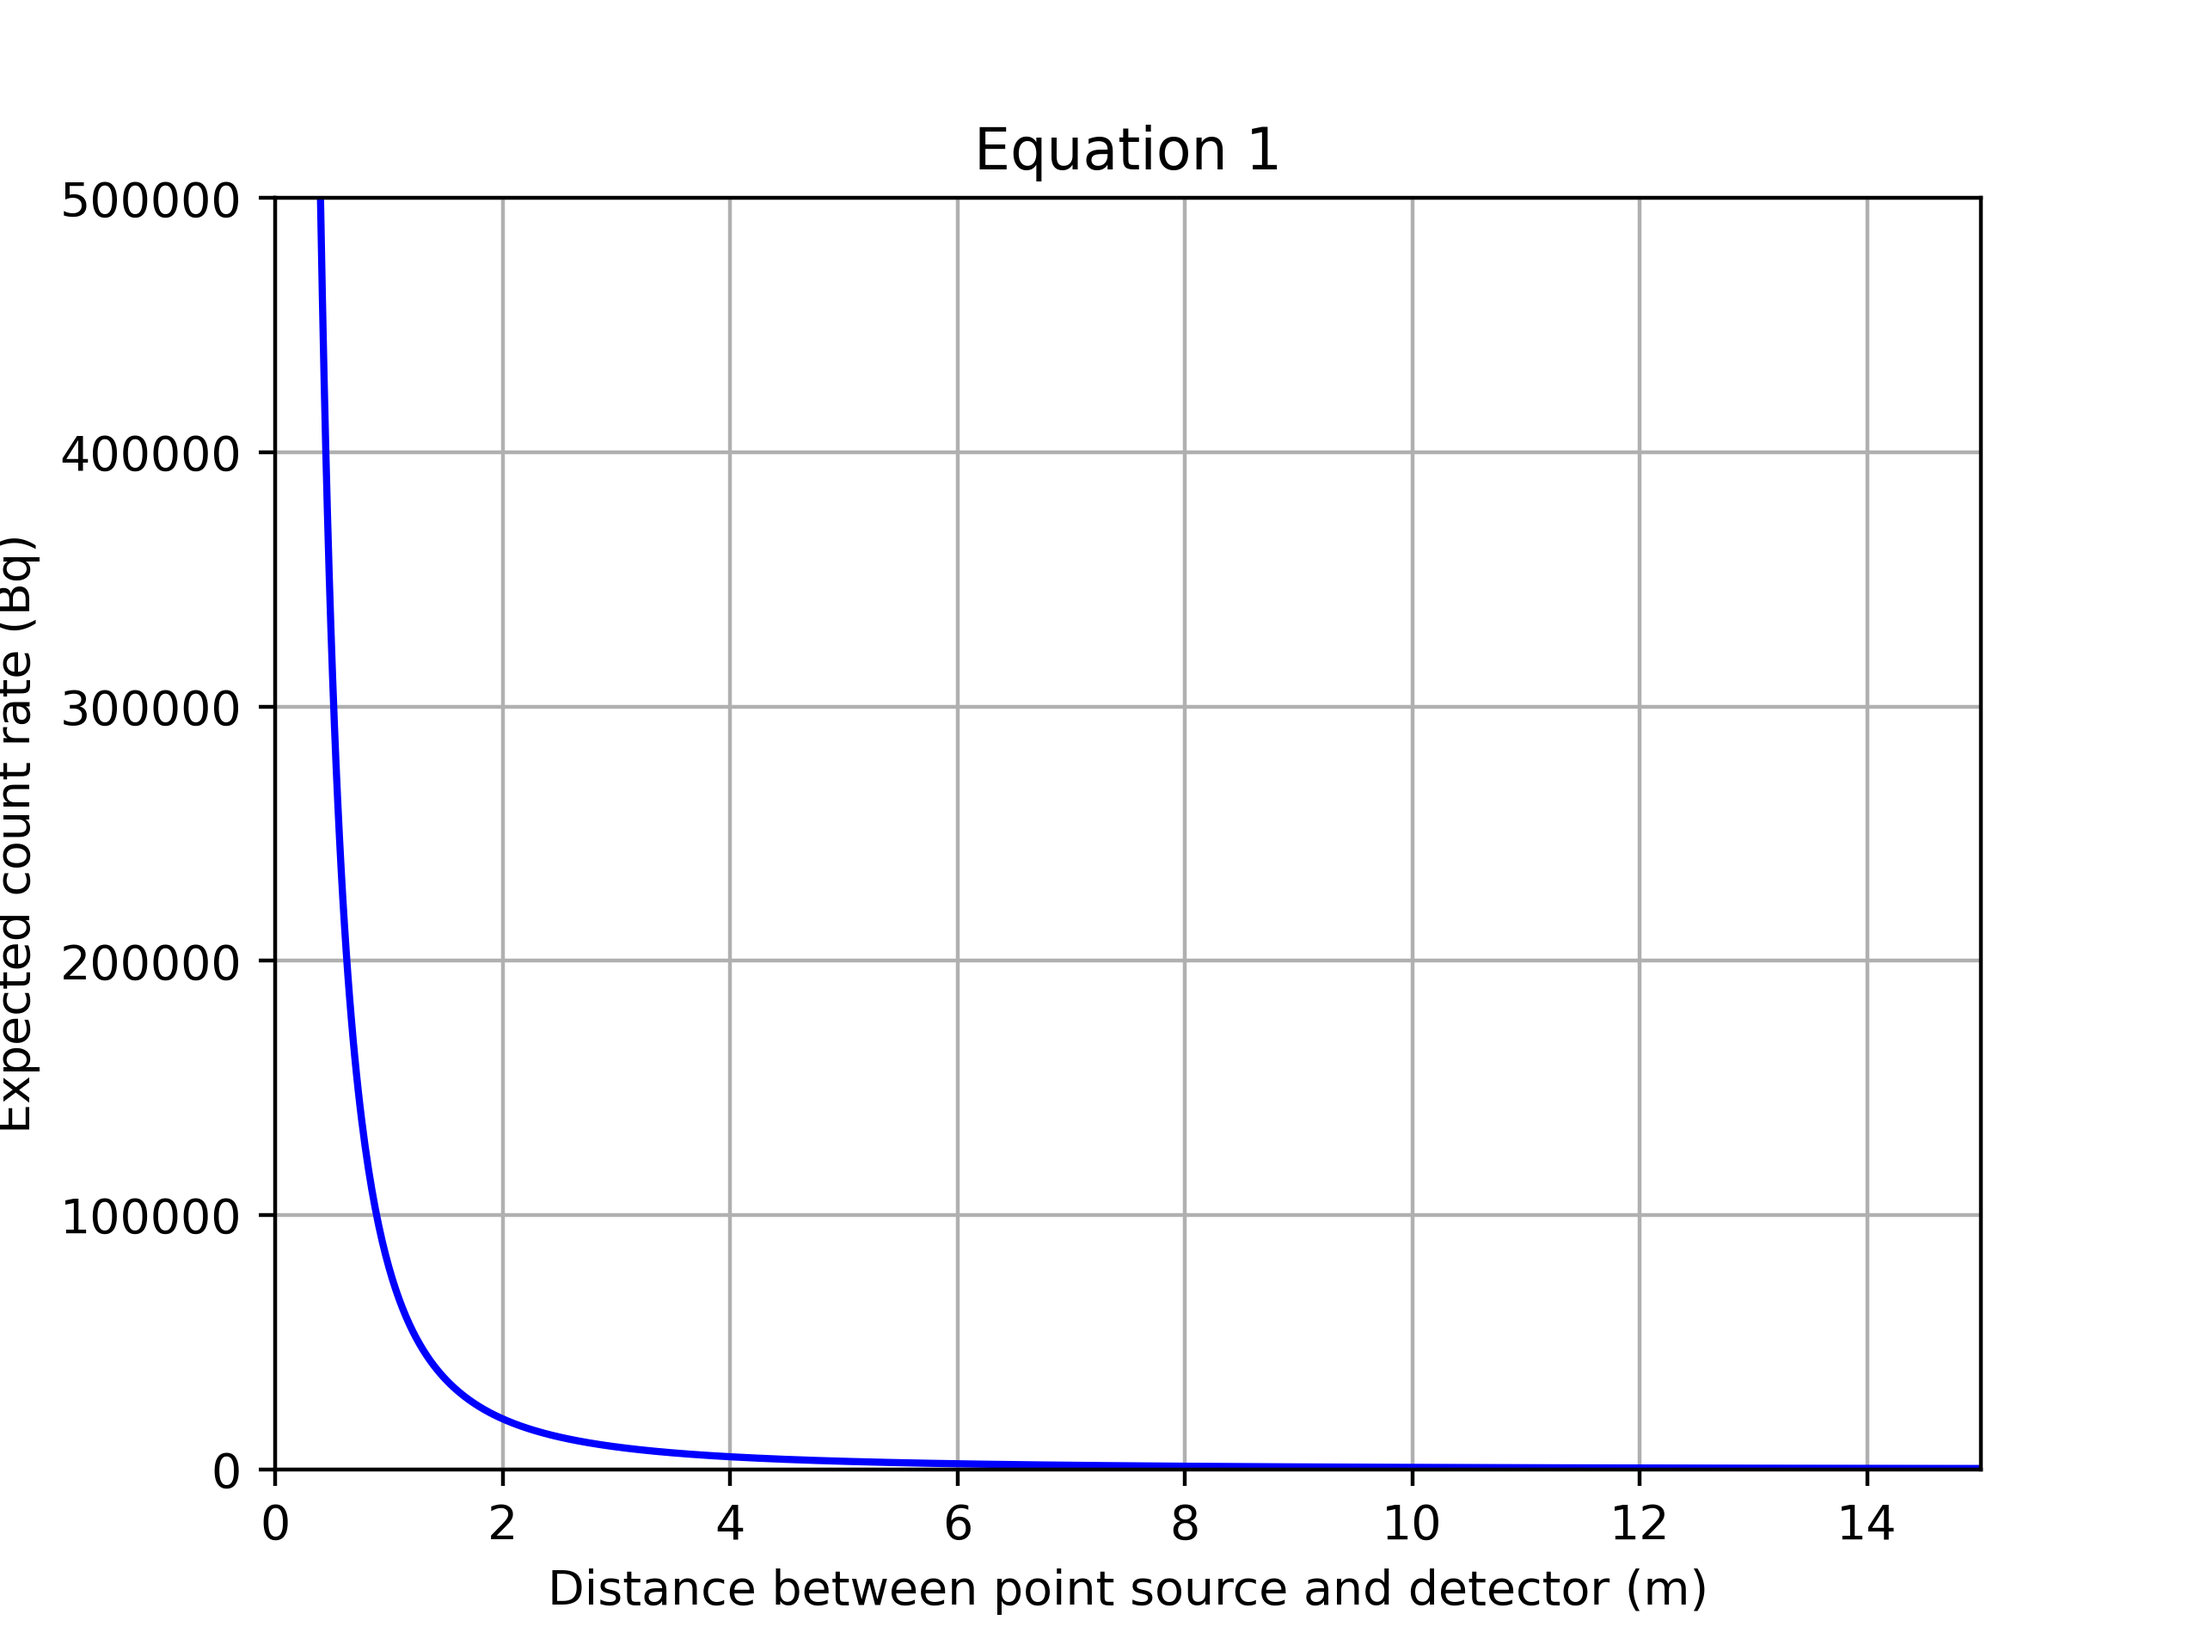
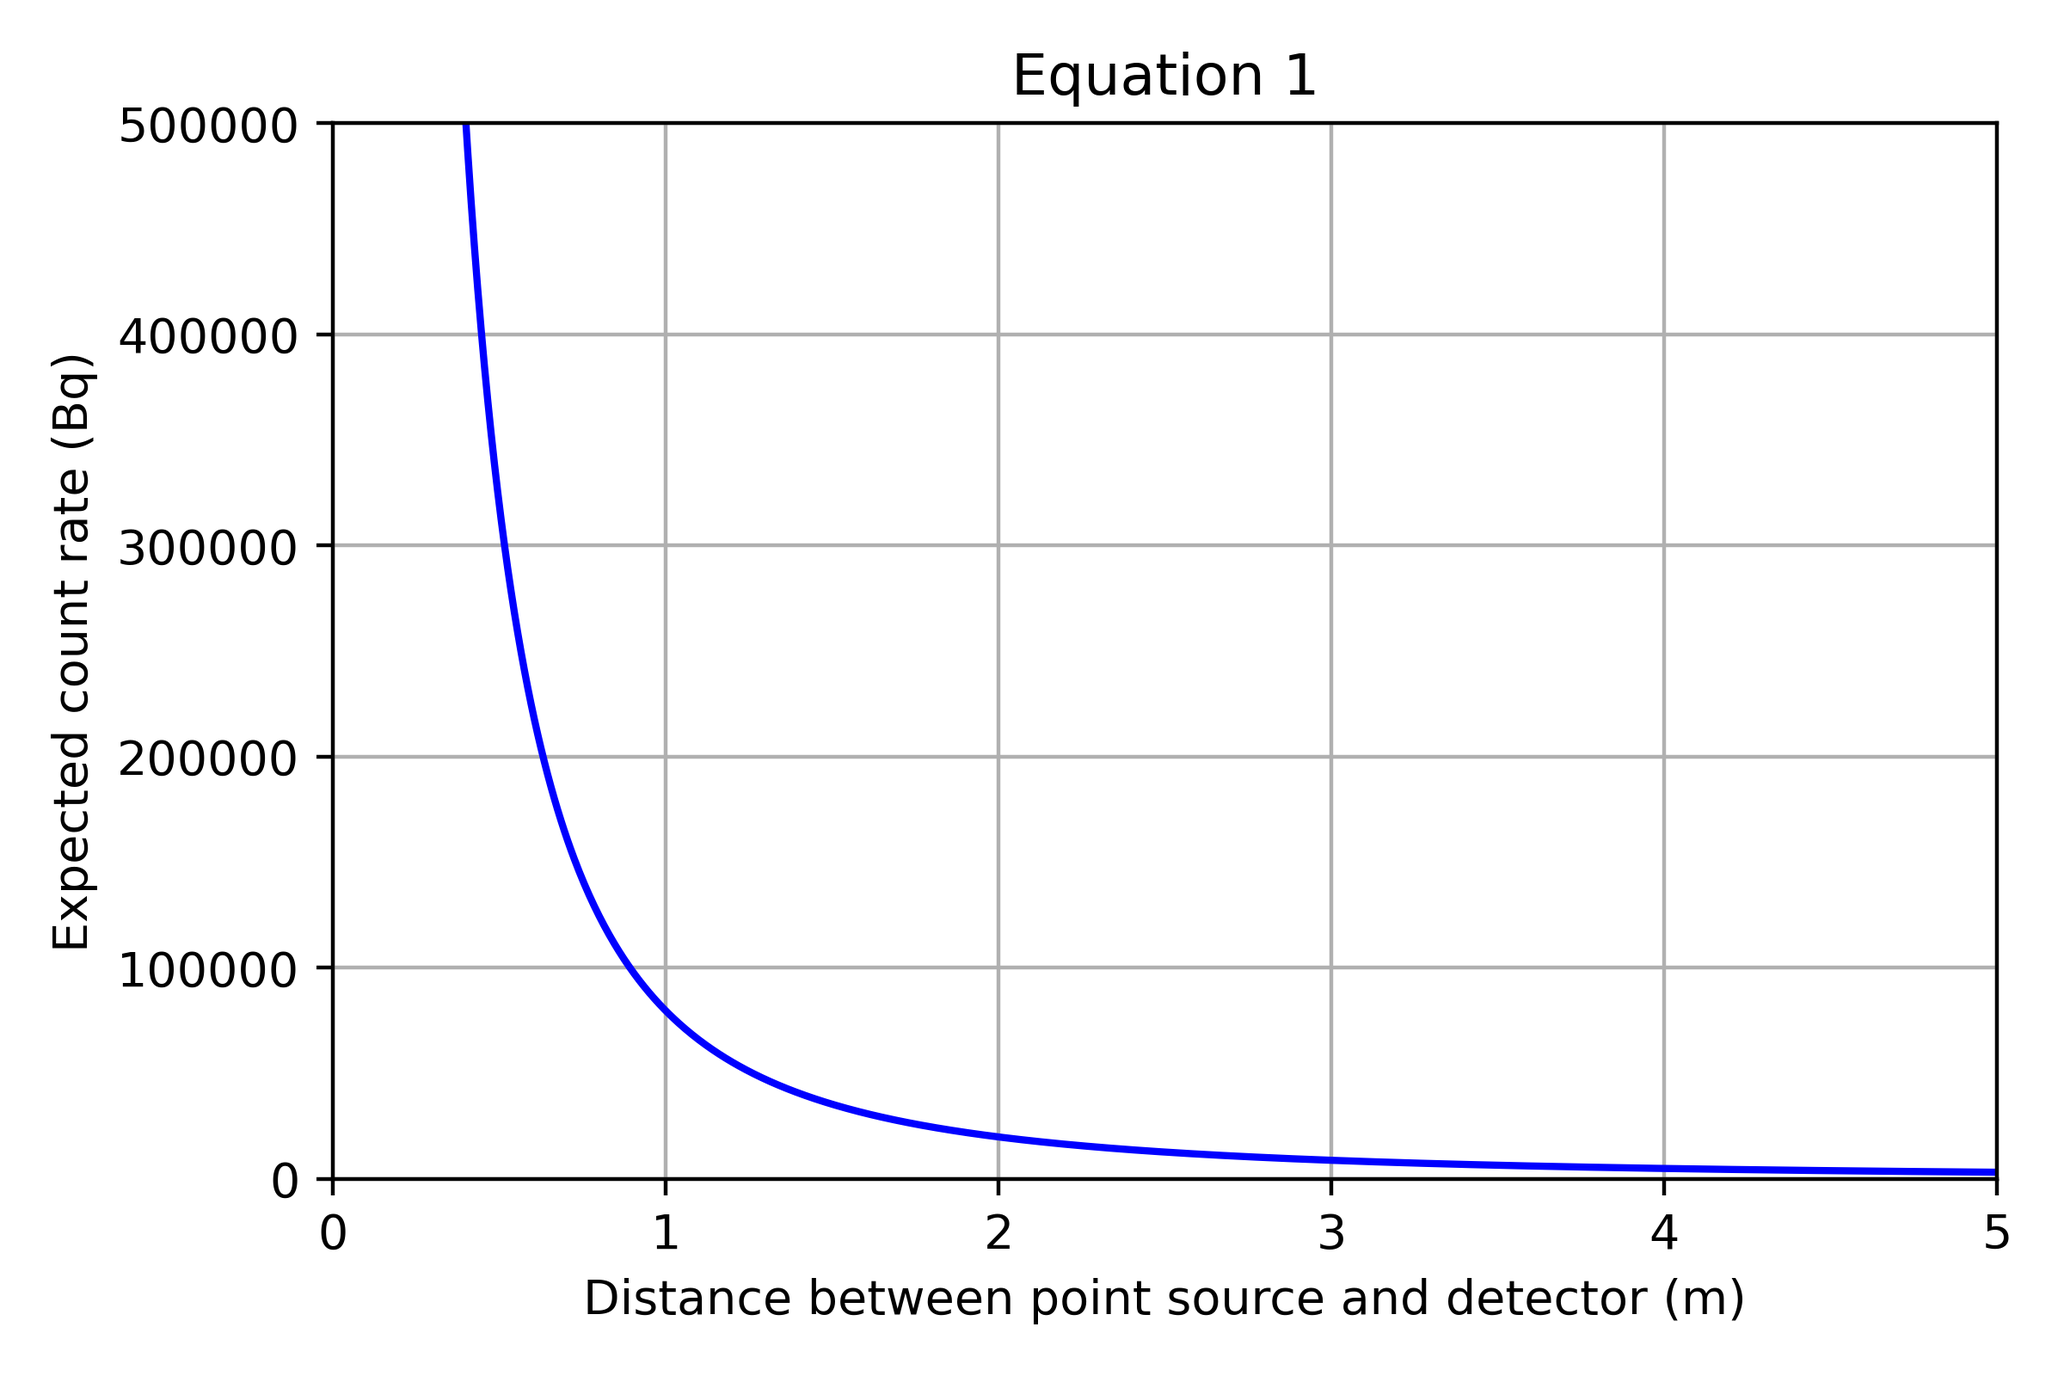
touch up on plots, add plot including eq2 and 3

diff --git a/code/complot.py b/code/complot.py
@@ -1,0 +1,85 @@
+# -*- coding: utf-8 -*-
+"""
+Created on Tue Mar 11 21:15:10 2025
+
+@author: wuhei
+"""
+
+import numpy as np
+import matplotlib.pyplot as plt
+from scipy.integrate import dblquad
+
+def integrate_point_source_modified(x2):
+    
+
+    L=1e6
+    detector_size=0.005
+    def integrand(y3, z3):
+        return x2 / ((x2**2 + y3**2 + z3**2) ** (3 / 2))
+    
+    integral_value, _ = dblquad(
+        integrand, 
+        -detector_size, detector_size,  # Limits for z3 (outer integral)
+        lambda z3: -detector_size, lambda z3: detector_size  # Limits for y3 (inner integral)
+    )
+    
+    return (L / (4 * np.pi)) * integral_value
+
+x2 = np.linspace(0.001, 0.1, num=1000, endpoint = True)
+y=np.array([])
+for n in range (0, len(x2)):
+    y=np.append(y, integrate_point_source_modified(x2[n]))
+
+
+# Plotting the graph
+plt.figure(dpi=400)
+plt.plot(x2, y, label='Equation 2')
+
+N=1000000 # Number of simulated particles for Monte Carlo method
+# Limits of the integrals, dimensions in SI units
+r1=0.02343/2
+L=0.0028
+y3b=0.005
+y3a=-0.005
+z3b=0.005
+z3a=-0.005
+y3=np.random.uniform(y3a, y3b, N)
+z3=np.random.uniform(z3a, z3b, N)
+x1b=L
+x1a=0
+x1=np.random.uniform(x1a, x1b, N)
+y1b=r1
+y1a=-r1
+y1=np.random.uniform(y1a, y1b, N)
+z1b=np.sqrt(r1**2-y1**2)
+z1a=-np.sqrt(r1**2-y1**2)
+z1=np.random.uniform(z1a, z1b, N)
+C=1000000 # Activity of source set as 1M Bq
+# Computing the integral
+def equation3(x2):
+    def integral(z3, y3, z1, y1, x1):
+        I=C/(np.pi*r1**2*L)
+        theta2=(x2+x1)/((x2+x1)**2+(y3-y1)**2+(z3-z1)**2)**1.5/(4*np.pi)
+        P=I*theta2
+        return P
+    y=integral(z3, y3, z1, y1, x1)   
+    y_mean=(y.sum())/len(y)
+    domain=0.01**2*np.pi*r1**2*L
+    integ=domain*y_mean    
+    return integ
+
+y=np.array([])
+for n in range (0, len(x2)):
+    y=np.append(y, equation3(x2[n]))
+plt.plot(x2, y, label='Equation 3')
+
+plt.xlabel('Distance between source and detector (m)')  # Label for x-axis
+plt.ylabel('Expected count rate (Bq)')    # Label for y-axis
+plt.title('Combined plot')  # subject to change
+plt.grid(True)  # Adding grid for better visualization
+plt.xlim(0, 0.1)
+plt.ylim(0, 75000)
+plt.legend()
+plt.tight_layout()
+plt.savefig('../code/diagrams/combined.png', dpi=400)
+plt.show()

diff --git a/code/eq1plot.py b/code/eq1plot.py
@@ -9,17 +9,19 @@ def calculate_flux(r):
     return L / (4 * np.pi * r**2)
 
 # Generate values for r (radius)
-r_values = np.linspace(0.01, 15, 1000)  # Example: radius values from 1 to 100
+r_values = np.linspace(0.01, 5, 1000)  # Example: radius values from 1 to 100
 flux_values = calculate_flux(r_values)
 
 # Plotting the graph
+plt.figure(dpi=400)
 plt.plot(r_values, flux_values, color='blue')
 plt.xlabel('Distance between point source and detector (m)')  # Label for x-axis
 plt.ylabel('Expected count rate (Bq)')    # Label for y-axis
 plt.title('Equation 1')  # subject to change
 plt.grid(True)  # Adding grid for better visualization
-plt.xlim(0, 15)
+plt.xlim(0, 5)
 plt.ylim(0, 500000)
+plt.tight_layout()
 plt.savefig('../code/diagrams/eq1.png', dpi=400)
 plt.show()
 

diff --git a/code/eq2plot.py b/code/eq2plot.py
@@ -42,6 +42,7 @@ for n in range (0, len(x2)):
     
 errors = np.sqrt(y)
 
+plt.figure(dpi=400)
 plt.plot(x2, y, color = "blue")
 plt.xlabel("Distance between point source and detector (m)")
 plt.ylabel("Expected count rate (Bq)")
@@ -53,6 +54,6 @@ plt.grid()
 upper = gaussian_filter1d(y + errors, sigma = 3)
 lower = gaussian_filter1d(y - errors, sigma = 3)
 plt.fill_between(x2, upper, lower, color = "pink", alpha = 0.2)
-
+plt.tight_layout()
 plt.savefig('../code/diagrams/eq2.png')
 plt.show()

diff --git a/code/eq3plot.py b/code/eq3plot.py
@@ -50,7 +50,7 @@ plt.ylabel("Expected count rate (Bq)")
 plt.title("Equation 3")
 plt.grid()
 plt.xlim(0, 0.1)
-plt.ylim(0, 80000)
+plt.ylim(0, 75000)
 
 upper = gaussian_filter1d(y + errors, sigma = 3)
 lower = gaussian_filter1d(y - errors, sigma = 3)
